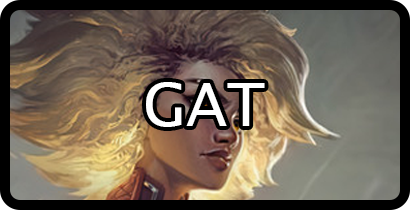
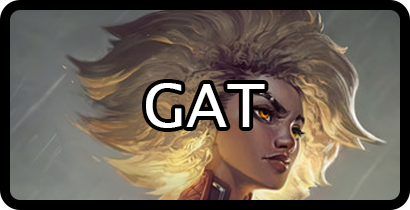
fixed navbar images

diff --git a/src/components/NavBar.jsx b/src/components/NavBar.jsx
@@ -6,7 +6,6 @@ import GATTimeline from './GATTimeline';
 import EsportsTimeline from './EsportsTimeline';
 import Contact from './Contact';
 import Thankyou from './Thankyou';
-//buttons
 
 export default function NavBar() {
     const [currentTab, setCurrentTab] = useState(0);
@@ -18,11 +17,11 @@ export default function NavBar() {
                     <Link to="/"><div className="nav-bar-name" onClick={() => setCurrentTab(0)}>Brad "Blizz" Dallaire</div></Link>
                         
                     <ul className="nav-bar-links">
-                        <div className="home-button"><Link to="/"><li className={`button-settings nav-link home-link ${currentTab === 0 ? "home-toggled" : "none"} `} onClick={() => setCurrentTab(0)}></li></Link></div>
-                        <Link to="/TFT"><li className={`button-settings nav-link tft-link ${currentTab === 1 ? "tft-toggled" : "none"}`} onClick={() => setCurrentTab(1)}></li></Link>
-                        <Link to="/GAT"><li className={`button-settings nav-link gat-link ${currentTab === 2 ? "gat-toggled" : "none"}`} onClick={() => setCurrentTab(2)}></li></Link>
-                        <Link to="/Esports"><li className={`button-settings nav-link esports-link ${currentTab === 3 ? "esports-toggled" : "none"}`} onClick={() => setCurrentTab(3)}></li></Link>
-                        <Link to="/Contact"><li className={`button-settings nav-link contact-link ${currentTab === 4 ? "contact-toggled" : "none"}`} onClick={() => setCurrentTab(4)}></li></Link>
+                        <div className="home-button"><Link to="/"><li className={`button-settings nav-link home-link ${currentTab === 0 ? "toggled" : "none"} `} onClick={() => setCurrentTab(0)}></li></Link></div>
+                        <Link to="/TFT"><li className={`button-settings nav-link tft-link ${currentTab === 1 ? "toggled" : "none"}`} onClick={() => setCurrentTab(1)}></li></Link>
+                        <Link to="/GAT"><li className={`button-settings nav-link gat-link ${currentTab === 2 ? "toggled" : "none"}`} onClick={() => setCurrentTab(2)}></li></Link>
+                        <Link to="/Esports"><li className={`button-settings nav-link esports-link ${currentTab === 3 ? "toggled" : "none"}`} onClick={() => setCurrentTab(3)}></li></Link>
+                        <Link to="/Contact"><li className={`button-settings nav-link contact-link ${currentTab === 4 ? "toggled" : "none"}`} onClick={() => setCurrentTab(4)}></li></Link>
                     </ul>
                 </div>
             </section>

diff --git a/src/css/_NavBar.scss b/src/css/_NavBar.scss
@@ -28,6 +28,11 @@
                 width: 12vw;
                 height: 10vh;
                 margin-right: 12px;
+                background-size: contain;
+                background-repeat: no-repeat;
+                &:hover {
+                    filter: grayscale(100%);
+                }
                
             }
             
@@ -35,77 +40,25 @@
     }
 }
 //links 
-
+.toggled {
+        filter: grayscale(80%);
+}
 .home-link {
     background-image: url('../assets/images/navbarButtons/akshanhome.png');
-    &:hover {
-        background: url('../assets/images/navbarButtons/akshanhome2.png');
-        background-size: contain;
-    background-repeat: no-repeat;
-    }
 }
-.home-toggled {
-    background: url('../assets/images/navbarButtons/akshanhome2.png');
-}
-
-
 
 .tft-link {
     background: url('../assets/images/navbarButtons/ViegoTFT.png');
-    &:hover {
-        background: url('../assets/images/navbarButtons/ViegoTFT2.png');
-        background-size: contain;
-    background-repeat: no-repeat;
-    }
+
 }
-.tft-toggled {
-    background: url('../assets/images/navbarButtons/ViegoTFT2.png');
-}
-
-
-
 .gat-link {
     background: url('../assets/images/navbarButtons/RellGAT.png');
-    &:hover {
-        background: url('../assets/images/navbarButtons/RellGAT2.png');
-        background-size: contain;
-    background-repeat: no-repeat;
-    }
 }
-.gat-toggled {
-    background: url('../assets/images/navbarButtons/RellGAT2.png');
-}
-
-
 
 .esports-link {
     background: url('../assets/images/navbarButtons/SamiraEsports.png');
-    &:hover {
-        background: url('../assets/images/navbarButtons/SamiraEsports2.png');
-        background-size: contain;
-        background-repeat: no-repeat;
-    }
 }
-.esports-toggled {
-    background: url('../assets/images/navbarButtons/SamiraEsports2.png');
-}
-
-
 
 .contact-link {
     background: url('../assets/images/navbarButtons/SennaContact.png');
-    &:hover {
-        background: url('../assets/images/navbarButtons/SennaContact2.png');
-        background-size: contain;
-        background-repeat: no-repeat;
-    }
-}
-.contact-toggled {
-    background: url('../assets/images/navbarButtons/SennaContact2.png');
-}
-
-
-.button-settings {
-    background-size: contain;
-    background-repeat: no-repeat;
 }

diff --git a/src/css/Styles.css b/src/css/Styles.css
@@ -133,81 +133,38 @@ html {
   width: 12vw;
   height: 10vh;
   margin-right: 12px;
+  background-size: contain;
+  background-repeat: no-repeat;
+}
+
+.nav-bar .nav-bar-content .nav-bar-links .nav-link:hover {
+  -webkit-filter: grayscale(100%);
+          filter: grayscale(100%);
+}
+
+.toggled {
+  -webkit-filter: grayscale(80%);
+          filter: grayscale(80%);
 }
 
 .home-link {
   background-image: url("../assets/images/navbarButtons/akshanhome.png");
 }
 
-.home-link:hover {
-  background: url("../assets/images/navbarButtons/akshanhome2.png");
-  background-size: contain;
-  background-repeat: no-repeat;
-}
-
-.home-toggled {
-  background: url("../assets/images/navbarButtons/akshanhome2.png");
-}
-
 .tft-link {
   background: url("../assets/images/navbarButtons/ViegoTFT.png");
-}
-
-.tft-link:hover {
-  background: url("../assets/images/navbarButtons/ViegoTFT2.png");
-  background-size: contain;
-  background-repeat: no-repeat;
-}
-
-.tft-toggled {
-  background: url("../assets/images/navbarButtons/ViegoTFT2.png");
 }
 
 .gat-link {
   background: url("../assets/images/navbarButtons/RellGAT.png");
 }
 
-.gat-link:hover {
-  background: url("../assets/images/navbarButtons/RellGAT2.png");
-  background-size: contain;
-  background-repeat: no-repeat;
-}
-
-.gat-toggled {
-  background: url("../assets/images/navbarButtons/RellGAT2.png");
-}
-
 .esports-link {
   background: url("../assets/images/navbarButtons/SamiraEsports.png");
 }
 
-.esports-link:hover {
-  background: url("../assets/images/navbarButtons/SamiraEsports2.png");
-  background-size: contain;
-  background-repeat: no-repeat;
-}
-
-.esports-toggled {
-  background: url("../assets/images/navbarButtons/SamiraEsports2.png");
-}
-
 .contact-link {
   background: url("../assets/images/navbarButtons/SennaContact.png");
-}
-
-.contact-link:hover {
-  background: url("../assets/images/navbarButtons/SennaContact2.png");
-  background-size: contain;
-  background-repeat: no-repeat;
-}
-
-.contact-toggled {
-  background: url("../assets/images/navbarButtons/SennaContact2.png");
-}
-
-.button-settings {
-  background-size: contain;
-  background-repeat: no-repeat;
 }
 
 .hero-container {
